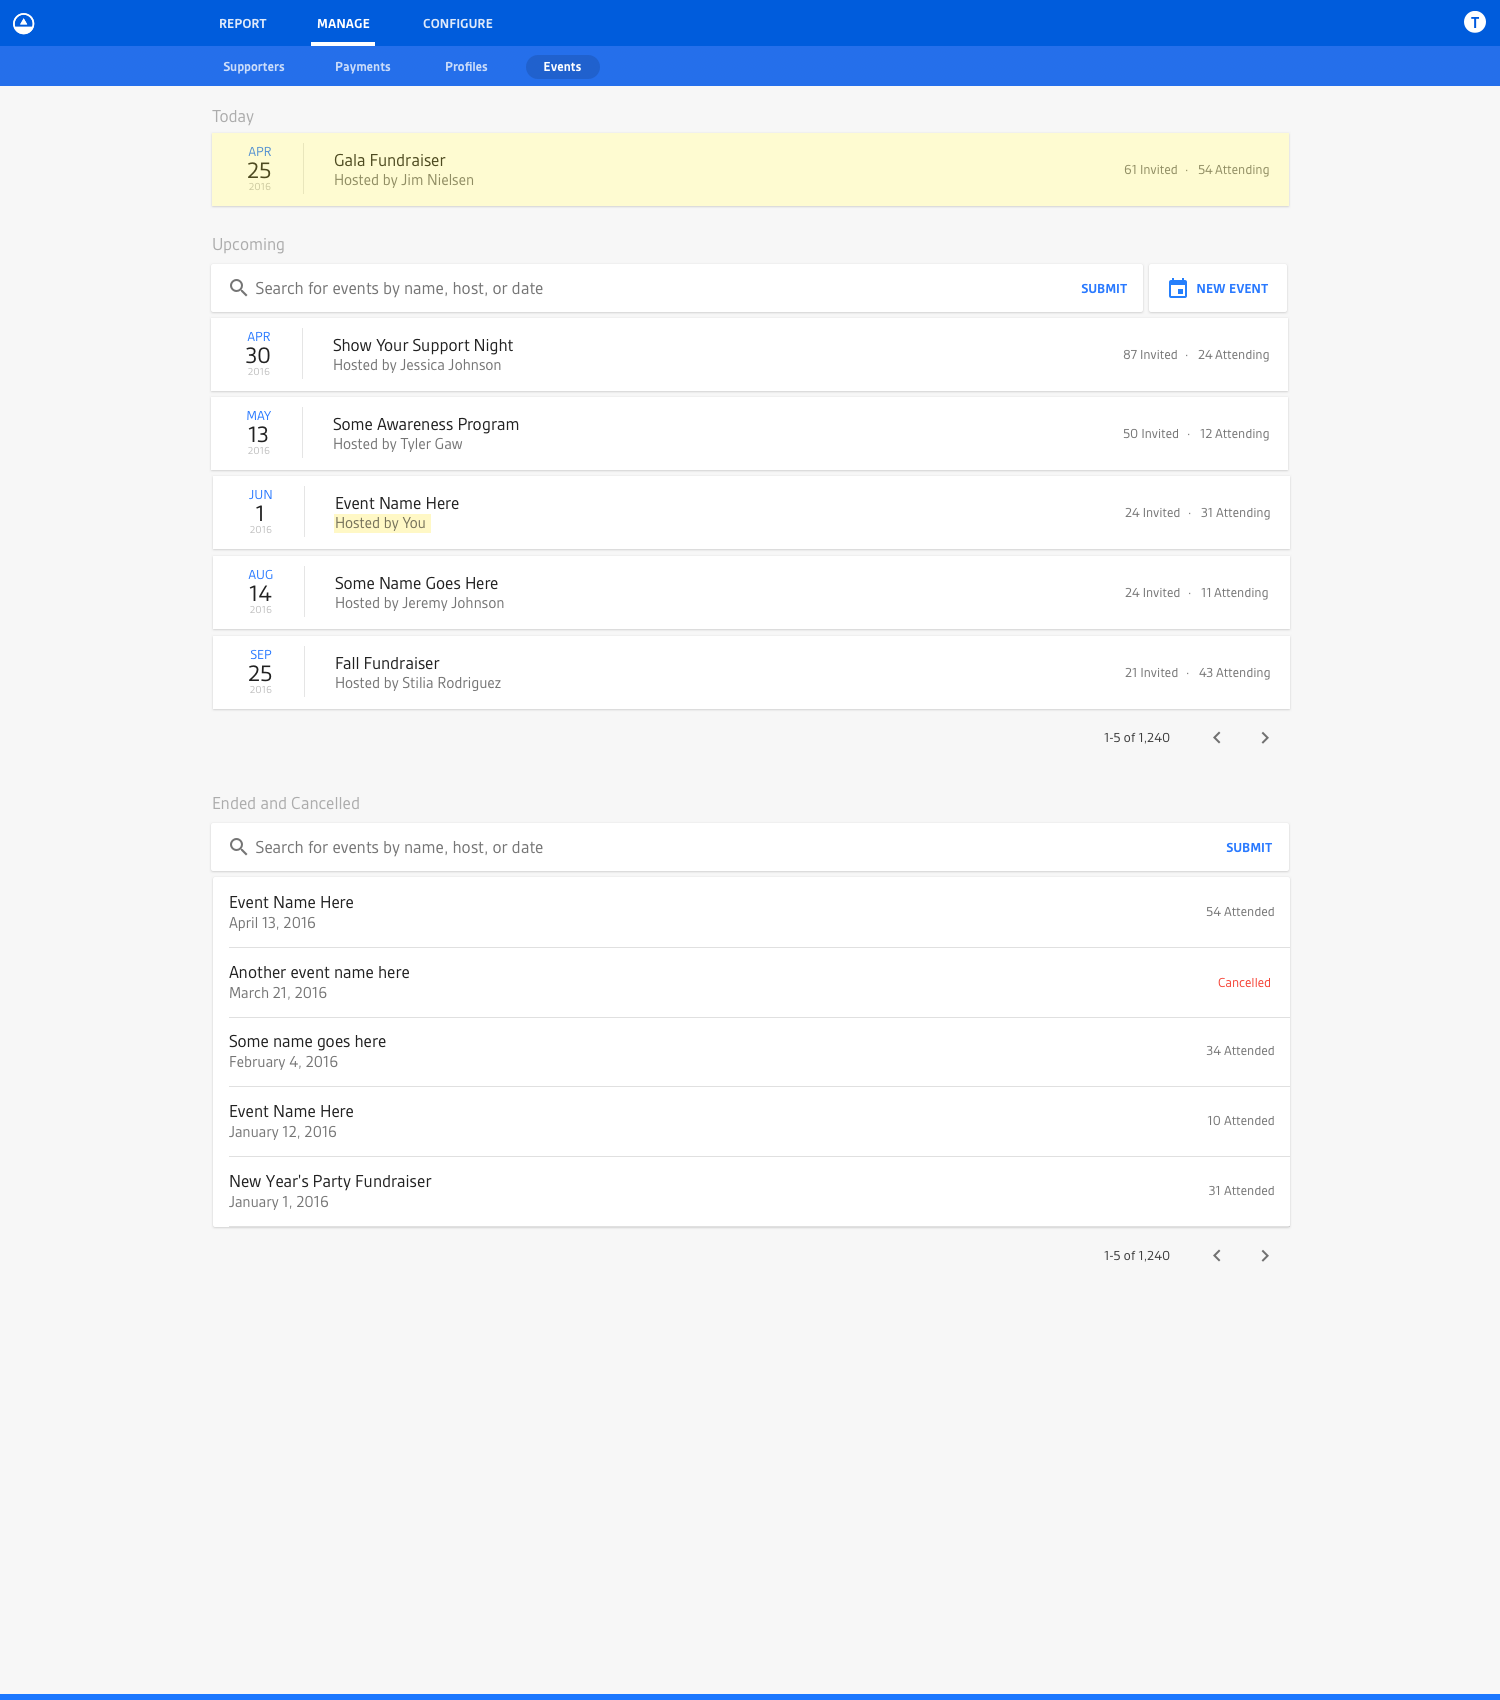
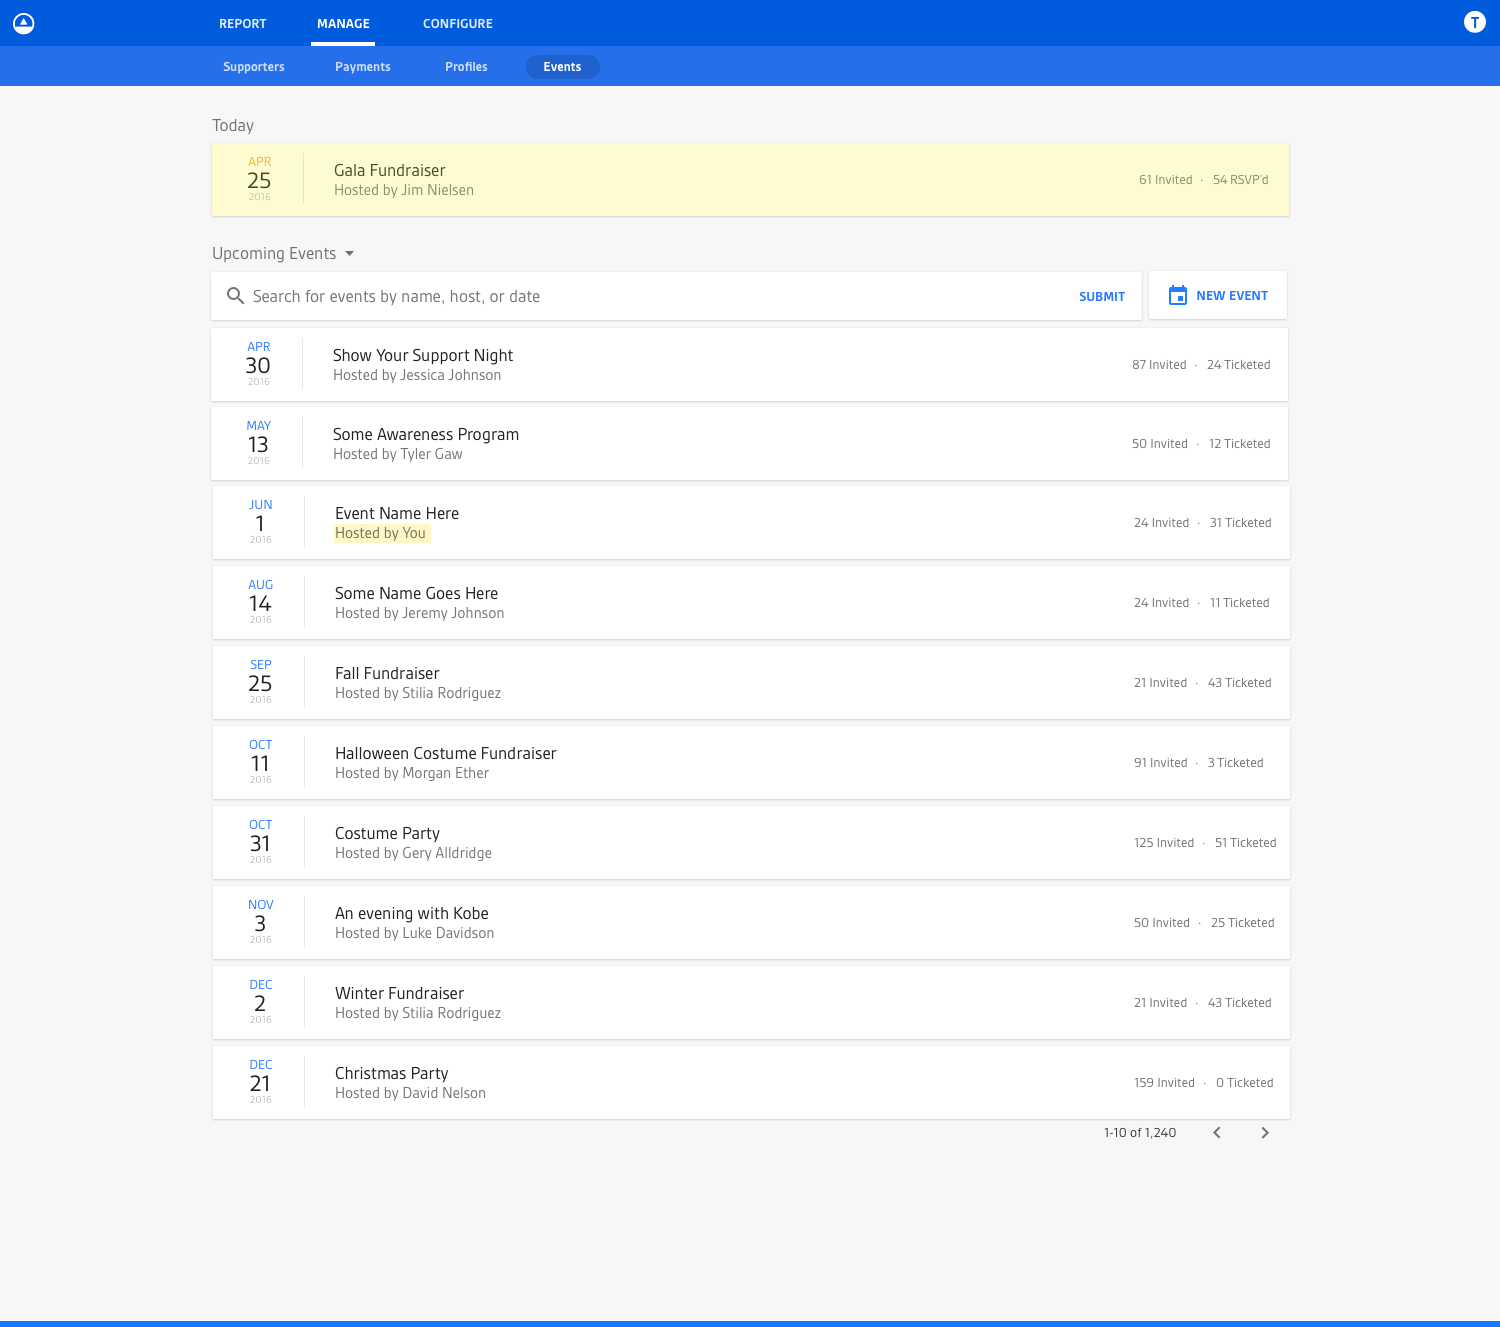
Update draft for timshel events ui post

diff --git a/_drafts/2017-01-07-timshel-designing-and-engineering-timshel-admin-events.md b/_drafts/2017-01-07-timshel-designing-and-engineering-timshel-admin-events.md
@@ -1,12 +1,77 @@
 ---
-title: "Designing and Engineering The Events UI for Timshel’s “Admin” Application"
-date: 2017-01-07
+title: "Designing and Engineering Event Management for Timshel’s “Admin” Web App"
+date: 2017-08-05
 tags: designProcess
 ---
 
-Events index iterations:
+Allow me to preface this piece of writing by saying this post has been a long time coming. It’s been almost a year since I departed [Timshel](https://timshel.com) / [The Groundwork](https://thegroundwork.com) (I miss the people there very mucho), so my recollections of around the “events” (you’ll see) of what happened might be a little fuzzy. Nevertheless, I wanted to get some words and pictures written down around the engineering and design work I did while I was there.
 
-1. First iteration, index listing of events
-2. Removed a few icons
-3. Moved to a single list that is filtereable via a dropdown from  the list label, i.e. "Upcoming events" when you click on reveals a dropdown where you can choose between "Upcoming Events", "Past Events", "All Events", etc., which would redraw the list.
-4. Added support for multi-day events.
+## The Feature
+
+While at Timshel / The Groundwork, one of the web applications I worked on was called “Admin”. It was very aptly named because it was an administrative application for customers and the variety of data associated with their accounts.
+
+One of the features I was tasked on designing and (in-part) engineering was the “Events” portion of the application — think event management. Our customers (or people on their behalf) would organize and host events supporting specific causes and they needed our platform’s software to help manage all facets of throwing such an event: scheduling, invitations, reminders, ticketing, messaging, etc. 
+
+The trickiest part of this feature was that it was intended to be engineered on a world-wide basis, i.e. under the assumption that anyone in the world could be using it. Because events deal in large part with time, that put me down a rabbit hole of computing I hadn’t really explored yet in my career. In the end I learned *a lot* about dates in software (and slice of knowledge that’s proven very useful since). 
+
+## The Design
+
+In collaboration with [one of the best product people](https://twitter.com/nick_alesandro) I’ve had the pleasure of working with, I initially started out on this feature talking through specifications and expectations. This led to sketches and wireframes (which, unforunately, I no longer have) to help flesh out ideas and concepts we were trying to design. Once we arrived at a place that felt like we knew what we we’re doing, I began executing on high-fidelity mocks.
+
+For context: the design (and engineering) team at The Groundwork already had a visual language established for the user interface of the Admin application, so I was able to quickly get up and running in Sketch. I did, however, have the liberty to create new UI components that I felt I needed for my feature but that weren’t available via our pattern library. We had a good iterative process internally that allowed us flexibility in designing and trying new UI components. If they proved effective, we would incorporate them back into our standardized pattern library for usage elsewhere in the application. It felt like the right balance of freedom while maintaining fleixibility and creativity.
+
+### The Events Index Page
+
+First I began working on the events index page. This is where users could go to see all the events associated with their account. On the first iteration, I came up with three separate lists: events occuring “today”, events occuring “in the future”, and “ended” or cancelled events. (FYI: I put those words in quotes because, as you’ll see later, those are time-based words that are relative and mean different things depending on where you are in the world).
+
+![Screenshot of the first design iteration of the events index page]({{ site.imageurl }}/2017/gw-events-index-1.png "First iteration of the events index view")
+
+After an initial round of feedback, I decided to simplify the UI down to a single list which would initially filter all events to just the “Upcoming” ones while any events occuring “today” would be hoisted to the top to lend them prominence. The label for the list would serve as a dropdown filter where the user could then filter by past or cancelled events.
+
+![Screenshot of the second design iteration of the events index page]({{ site.imageurl }}/2017/gw-events-index-2.png "Another iteration of the events index view")
+
+Eventually after more feedback and more feature clarification, I eventually arrived at a design like you see below. It functioned much like the mocks you’ve seen previously, but also took into account events that spanned multiple days.
+
+![Screenshot of the final design iteration of the events index page]({{ site.imageurl }}/2017/gw-events-index-3.png "Final iteration of the events index voew")
+
+One thing worth noting here: having the design of those multi-day events break the vertical alignment of date representations was, in fact, intentional. It was something I thought about a lot and decided to do purposefully. Multi-day events were, in most cases, an exception in the system. So calling them out specifically in the UI by breaking the linear flow was intentional (something [I pointed out on Dribbble](https://dribbble.com/shots/2833368-Event-list-view)). And that’s what design is all about: fulfilling purpose through intentional form. Anyway, I digress...
+
+### The Individual Event Page
+
+Event View
+
+Iteration 1
+
+Upcoming 
+Today
+Cancelled
+
+Iteration 2
+
+Upcoming
+Today
+Ended
+Cancelled
+
+Iteration 3
+
+Upcoming
+Today
+Ended
+Cancelled
+3.gif (overall ux)
+
+Iteration 4
+
+Upcoming
+Today
+Ended
+Cancelled
+Create
+Upcoming - Messages
+Upcoming - Tickets
+Upcoming - 
+
+## The (Front-end) Engineering
+
+
